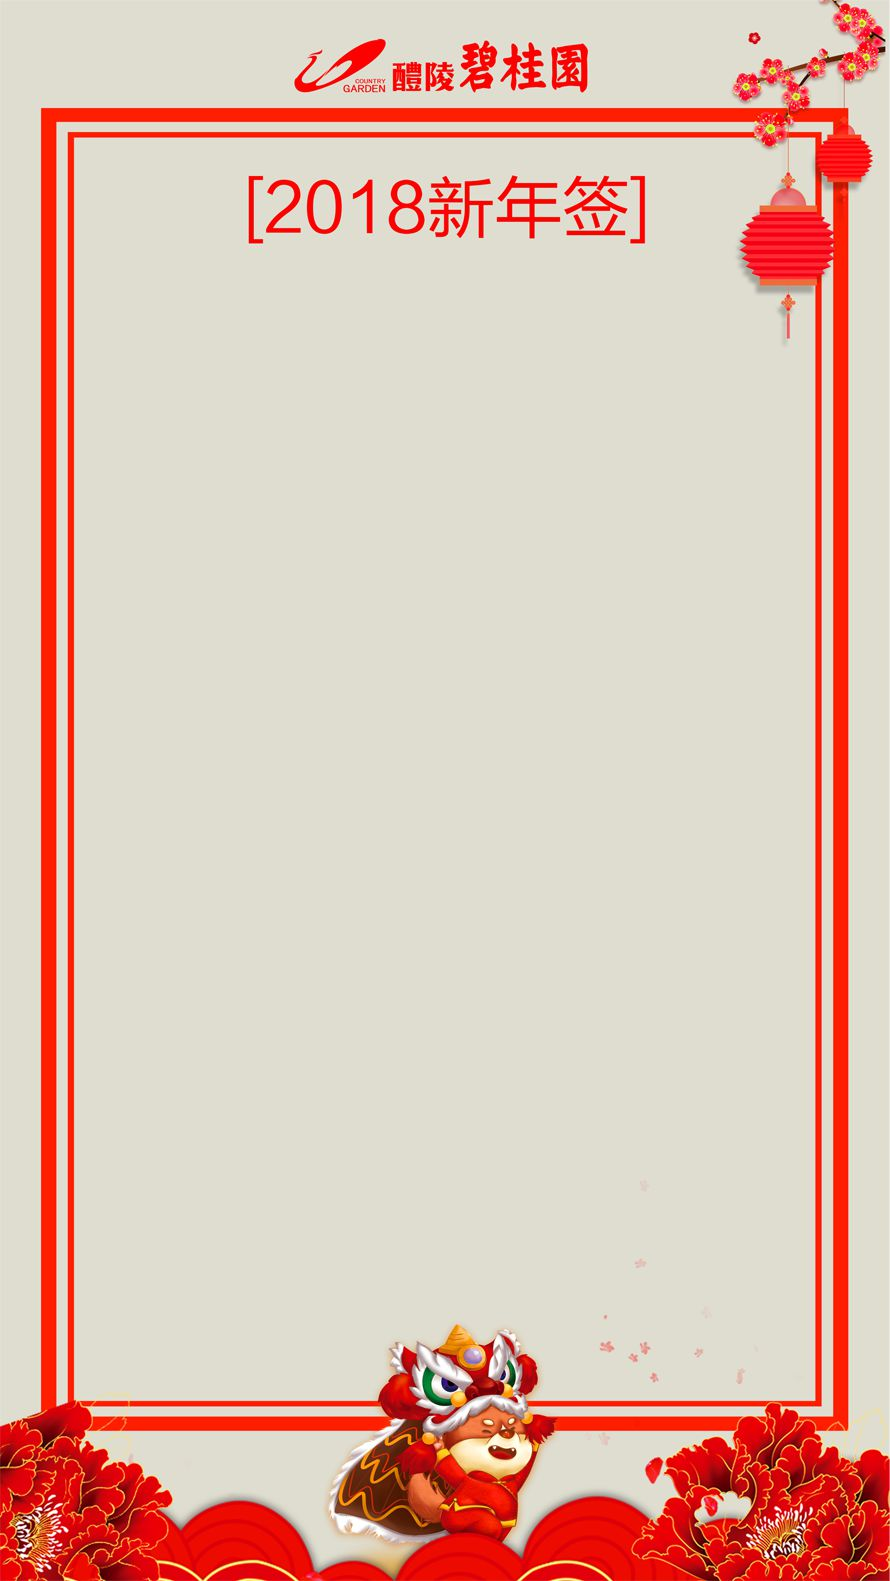
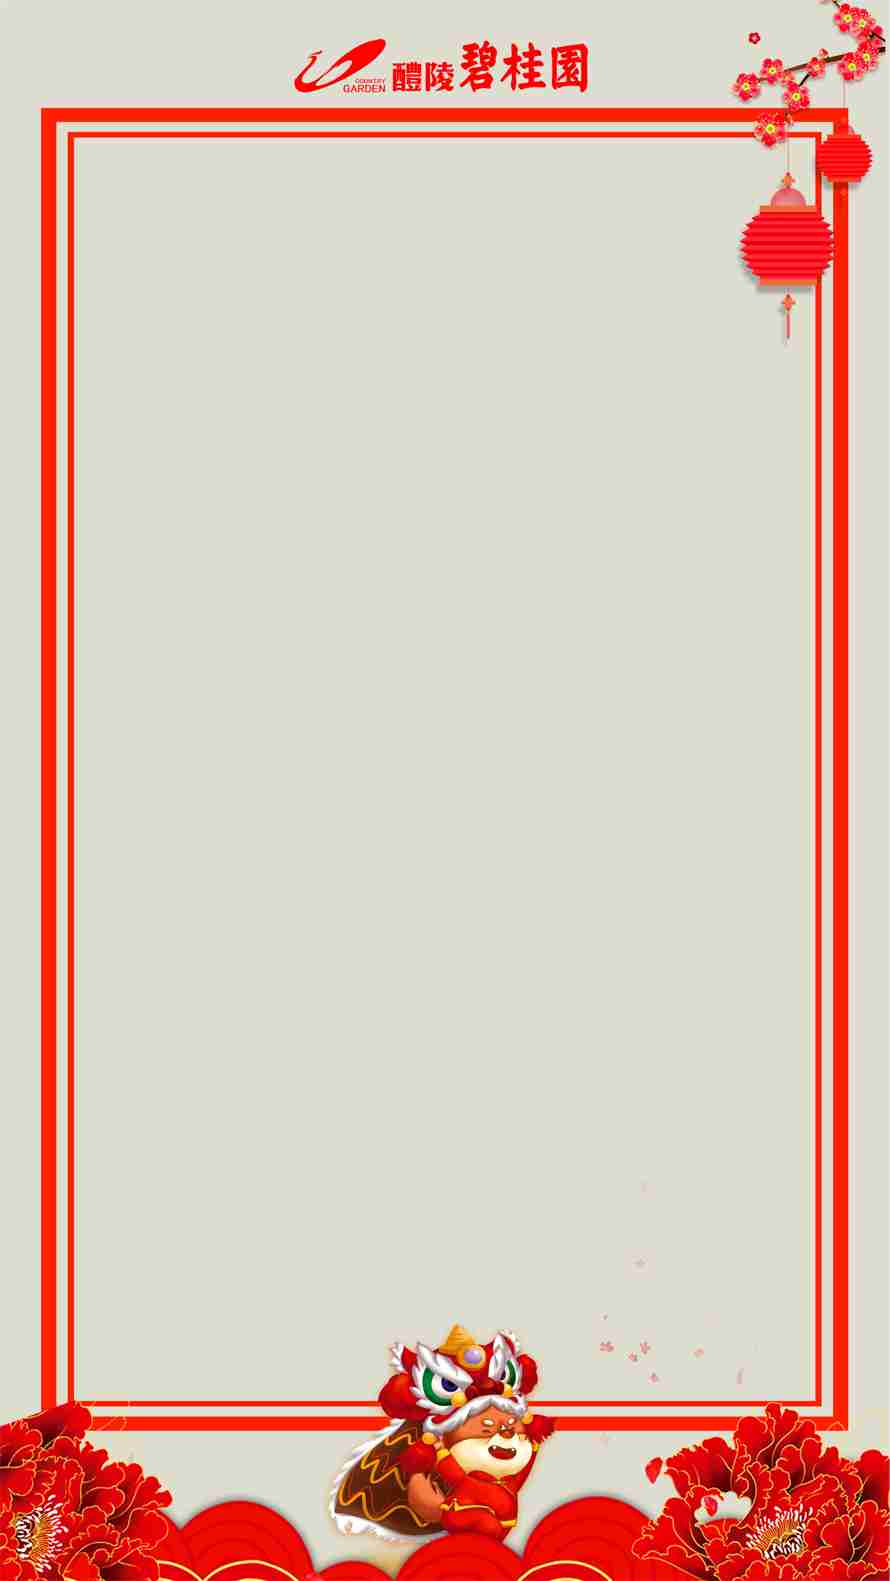
fix

diff --git a/index.html b/index.html
@@ -14,7 +14,11 @@
     <div class="wp-inner" >
       <div class="page page-1">
           <div class="item item-1 js-animate " data-animate="">
-            <div>
+            <div class="flex">
+                <div style="
+    margin: .2rem 0 .2rem 0;">
+                    <img src="/img/01/2018.png" alt="" width="30%">
+                </div>
                 <div class="qiuqian">
                     <!-- <img src="/img/01/qiuqian.png" alt="" width="50%" class="js-animate " data-animate=""> -->
                     <input type="text" name="name" id="name" placeholder="输入姓名">
@@ -31,6 +35,10 @@
         <div class="item item-2 js-animate " data-animate="">
           <!-- <div class="marign"></div> -->
           <div class="flex">
+              <div style="
+    margin: .2rem 0 .2rem 0;">
+                <img src="/img/01/2018.png" alt="" width="30%">
+              </div>
               <div class="qian js-animate " data-animate="">
                   <img id="drow" src="/img/qian/1.png" alt="">
                 </div>

diff --git a/css/index.less b/css/index.less
@@ -53,6 +53,11 @@ body{
       padding: .2rem .3rem;
       color: yellow;
   }
+  .flex{
+    display: flex;
+    flex-direction: column;
+    // justify-content: center;
+  }
   &-1{
     
     .qiuqian{
@@ -104,9 +109,7 @@ body{
     .marign{
       padding-top: 1.9rem;
     }
-    .flex{
-      
-    }
+    
     .bg, .qian{
       background-size: contain;
       background-repeat: no-repeat;

diff --git a/css/index.css b/css/index.css
@@ -41,6 +41,10 @@ body {
   padding: .2rem .3rem;
   color: yellow;
 }
+.item .flex {
+  display: flex;
+  flex-direction: column;
+}
 .item-1 .qiuqian {
   background: url('../img/01/qiuqian.png');
   background-repeat: no-repeat;
